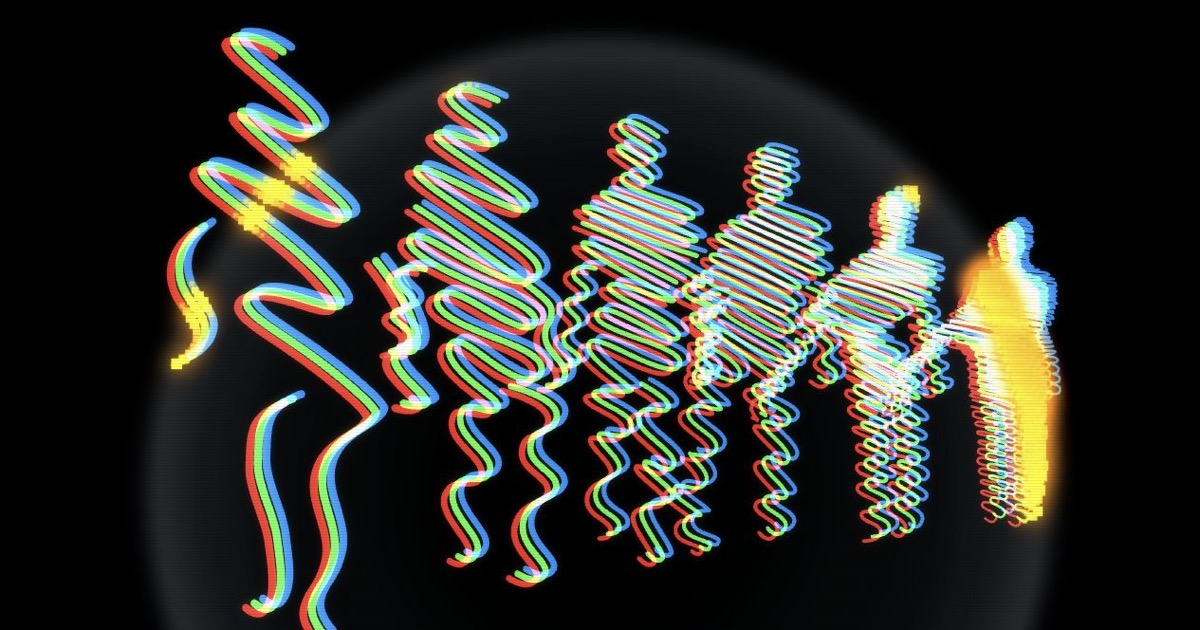
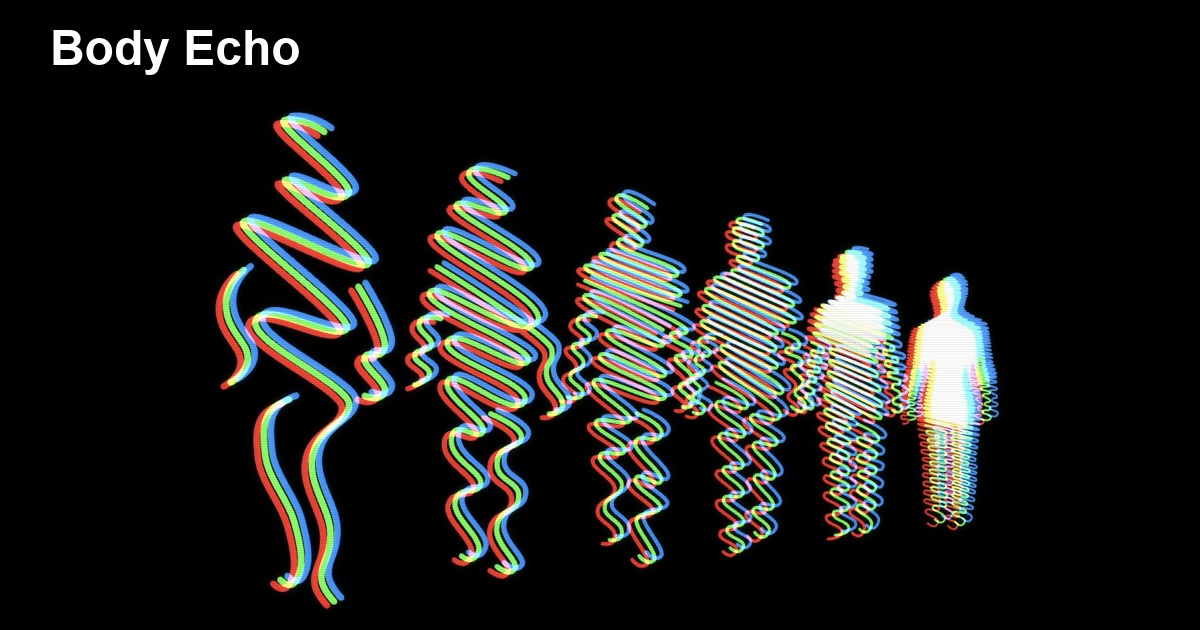
fix: refine body echo og image

diff --git a/pages/body-echo/index.html b/pages/body-echo/index.html
@@ -12,11 +12,11 @@
   <meta property="og:image" content="https://brand-artwork.vercel.app/pages/body-echo/assets/og-image.jpg">
   <meta property="og:image:width" content="1200">
   <meta property="og:image:height" content="630">
-  <meta property="og:image:alt" content="Body Echo RGB human afterimages intersected by a neon wave">
+  <meta property="og:image:alt" content="Body Echo RGB human afterimages in their resting state">
   <meta name="twitter:card" content="summary_large_image">
   <meta name="twitter:title" content="Body Echo">
   <meta name="twitter:image" content="https://brand-artwork.vercel.app/pages/body-echo/assets/og-image.jpg">
-  <meta name="twitter:image:alt" content="Body Echo RGB human afterimages intersected by a neon wave">
+  <meta name="twitter:image:alt" content="Body Echo RGB human afterimages in their resting state">
   <link rel="stylesheet" href="style.css">
 </head>
 <body>
